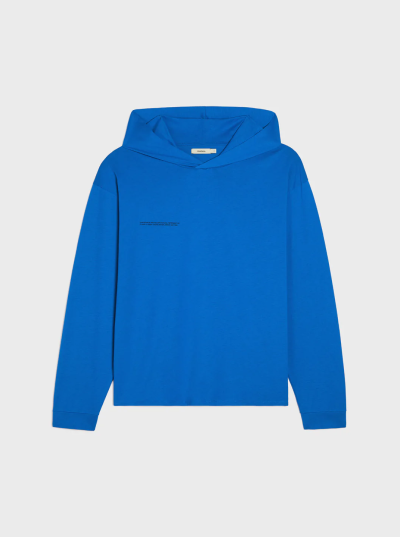
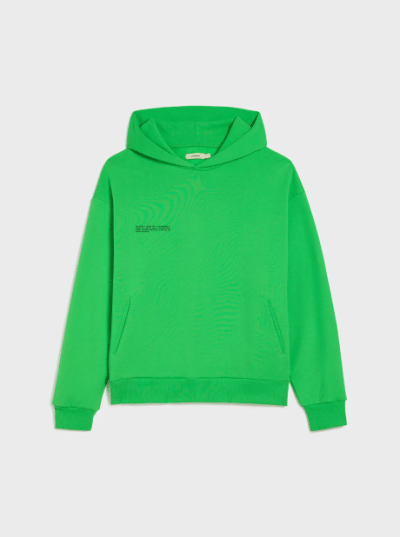
first commit

diff --git a/inner.html b/inner.html
@@ -37,7 +37,7 @@
                                 <div class="swiper-wrapper">
                                     <div class="swiper-slide">
                                         <div class="img-wrapper">
-                                            <img src="./img/bg-1.png" alt="ürün">
+                                            <img class="product-image" src="./img/bg-1.png" alt="ürün">
                                         </div>
                                         <div class="content">
                                             <h6>365 Signature Hoodie</h6>
@@ -45,17 +45,44 @@
                                                 <span class="price">€33.95</span>
                                                 <div class="change">
                                                     <form>
-                                                        <input type="radio" name="color" id="color1" value="color1" />
+                                                        <input type="radio" name="color" id="color1" value="./img/bg-1-2.png"checked/>
                                                         <label for="color1"><span class="color1"></span></label>
-
-                                                        <input type="radio" name="color" id="color2" />
+                                    
+                                                        <input type="radio" name="color" id="color2" value="./img/bg-1-3.png" />
                                                         <label for="color2"><span class="color2"></span></label>
-
-                                                        <input type="radio" name="color" id="color3" />
+                                    
+                                                        <input type="radio" name="color" id="color3" value="./img/bg-1-5.png"  />
                                                         <label for="color3"><span class="color3"></span></label>
-
-                                                        <input type="radio" name="color" id="color4" />
+                                    
+                                                        <input type="radio" name="color" id="color4" value="./img/bg-1-4.png" />
                                                         <label for="color4"><span class="color4"></span></label>
+                                                    </form>
+                                                </div>
+                                            </div>
+                                        </div>
+                                    </div>
+                                    
+                                    <div class="swiper-slide">
+                                        <div class="img-wrapper">
+                                            <img class="product-image" src="./img/bg-3.png" alt="ürün">
+                                        </div>
+                                        <div class="content">
+                                            <h6>365 Signature Hoodie</h6>
+                                            <div class="bottom">
+                                                <span class="price">€33.95</span>
+                                                <div class="change">
+                                                    <form>
+                                                        <input type="radio" name="color" id="color5" value="./img/bg-3-2.png" />
+                                                        <label for="color5"><span class="color1"></span></label>
+                                    
+                                                        <input type="radio" name="color" id="color6" value="./img/bg-3-4.png"  />
+                                                        <label for="color6"><span class="color2"></span></label>
+                                    
+                                                        <input type="radio" name="color" id="color7" value="./img/bg-3-1.png" checked />
+                                                        <label for="color7"><span class="color3"></span></label>
+                                    
+                                                        <input type="radio" name="color" id="color8" value="./img/bg-3-3.png" />
+                                                        <label for="color8"><span class="color4"></span></label>
                                                     </form>
                                                 </div>
                                             </div>
@@ -63,7 +90,7 @@
                                     </div>
                                     <div class="swiper-slide">
                                         <div class="img-wrapper">
-                                            <img src="./img/bg-3.png" alt="ürün">
+                                            <img class="product-image" src="./img/bg-1.png" alt="ürün">
                                         </div>
                                         <div class="content">
                                             <h6>365 Signature Hoodie</h6>
@@ -71,17 +98,17 @@
                                                 <span class="price">€33.95</span>
                                                 <div class="change">
                                                     <form>
-                                                        <input type="radio" name="color" id="color1" value="color1" />
-                                                        <label for="color1"><span class="color1"></span></label>
-
-                                                        <input type="radio" name="color" id="color2" />
-                                                        <label for="color2"><span class="color2"></span></label>
-
-                                                        <input type="radio" name="color" id="color3" />
-                                                        <label for="color3"><span class="color3"></span></label>
-
-                                                        <input type="radio" name="color" id="color4" />
-                                                        <label for="color4"><span class="color4"></span></label>
+                                                        <input type="radio" name="color" id="color9" value="./img/bg-2.png"checked/>
+                                                        <label for="color9"><span class="color1"></span></label>
+                                    
+                                                        <input type="radio" name="color" id="color10" value="./img/bg-2-1.png" />
+                                                        <label for="color10"><span class="color2"></span></label>
+                                    
+                                                        <input type="radio" name="color" id="color11" value="./img/bg-2-2.png"  />
+                                                        <label for="color11"><span class="color3"></span></label>
+                                    
+                                                        <input type="radio" name="color" id="color12" value="./img/bg-2-3.png" />
+                                                        <label for="color12"><span class="color4"></span></label>
                                                     </form>
                                                 </div>
                                             </div>
@@ -89,7 +116,7 @@
                                     </div>
                                     <div class="swiper-slide">
                                         <div class="img-wrapper">
-                                            <img src="./img/bg-2.png" alt="ürün">
+                                            <img class="product-image" src="./img/bg-3.png" alt="ürün">
                                         </div>
                                         <div class="content">
                                             <h6>365 Signature Hoodie</h6>
@@ -97,26 +124,29 @@
                                                 <span class="price">€33.95</span>
                                                 <div class="change">
                                                     <form>
-                                                        <input type="radio" name="color" id="color1" value="color1" />
-                                                        <label for="color1"><span class="color1"></span></label>
-
-                                                        <input type="radio" name="color" id="color2" />
-                                                        <label for="color2"><span class="color2"></span></label>
-
-                                                        <input type="radio" name="color" id="color3" />
-                                                        <label for="color3"><span class="color3"></span></label>
-
-                                                        <input type="radio" name="color" id="color4" />
-                                                        <label for="color4"><span class="color4"></span></label>
+                                                        <input type="radio" name="color" id="color13" value="./img/bg-3-2.png" />
+                                                        <label for="color13"><span class="color1"></span></label>
+                                    
+                                                        <input type="radio" name="color" id="color14" value="./img/bg-3-4.png"  />
+                                                        <label for="color14"><span class="color2"></span></label>
+                                    
+                                                        <input type="radio" name="color" id="color15" value="./img/bg-3-1.png"  />
+                                                        <label for="color15"><span class="color3"></span></label>
+                                    
+                                                        <input type="radio" name="color" id="color16" value="./img/bg-3-3.png" checked />
+                                                        <label for="color16"><span class="color4"></span></label>
                                                     </form>
                                                 </div>
                                             </div>
                                         </div>
                                     </div>
+                                    
+                                    
                                 </div>
                             </div>
                         </div>
                         <div class="swiper-button-next"></div>
+                        <div class="swiper-button-prev"></div>
                     </div>
 
                 </div>
@@ -127,6 +157,7 @@
     </section>
     <script src="https://cdn.jsdelivr.net/npm/swiper@10/swiper-bundle.min.js"></script>
     <script src="./js/script.js"></script>
+
 </body>
 
 </html>

diff --git a/css/style.css b/css/style.css
@@ -226,7 +226,8 @@ button {
   position: relative;
 }
 .products .col-right .slider-area .swiper-button-next,
-.products .col-right .slider-area .swiper-rtl .swiper-button-prev {
+.products .col-right .slider-area .swiper-rtl .swiper-button-prev, .products .col-right .slider-area .swiper-button-prev,
+.products .col-right .slider-area .swiper-rtl .swiper-button-next {
   right: 70px !important;
   border: 1px solid rgba(0, 0, 0, 0.3647058824);
   width: 4rem;
@@ -234,36 +235,48 @@ button {
 }
 @media screen and (max-width: 1550px) {
   .products .col-right .slider-area .swiper-button-next,
-  .products .col-right .slider-area .swiper-rtl .swiper-button-prev {
+  .products .col-right .slider-area .swiper-rtl .swiper-button-prev, .products .col-right .slider-area .swiper-button-prev,
+  .products .col-right .slider-area .swiper-rtl .swiper-button-next {
     width: 2.5rem;
     height: 2.5rem;
   }
 }
 @media screen and (max-width: 1200px) {
   .products .col-right .slider-area .swiper-button-next,
-  .products .col-right .slider-area .swiper-rtl .swiper-button-prev {
+  .products .col-right .slider-area .swiper-rtl .swiper-button-prev, .products .col-right .slider-area .swiper-button-prev,
+  .products .col-right .slider-area .swiper-rtl .swiper-button-next {
     width: 2rem;
     height: 2rem;
   }
 }
 @media screen and (max-width: 991px) {
   .products .col-right .slider-area .swiper-button-next,
-  .products .col-right .slider-area .swiper-rtl .swiper-button-prev {
+  .products .col-right .slider-area .swiper-rtl .swiper-button-prev, .products .col-right .slider-area .swiper-button-prev,
+  .products .col-right .slider-area .swiper-rtl .swiper-button-next {
     display: none;
   }
 }
 .products .col-right .slider-area .swiper-button-next:after,
-.products .col-right .slider-area .swiper-rtl .swiper-button-prev:after {
+.products .col-right .slider-area .swiper-rtl .swiper-button-prev:after, .products .col-right .slider-area .swiper-button-prev:after,
+.products .col-right .slider-area .swiper-rtl .swiper-button-next:after {
   display: none;
 }
 .products .col-right .slider-area .swiper-button-next:before,
-.products .col-right .slider-area .swiper-rtl .swiper-button-prev:before {
+.products .col-right .slider-area .swiper-rtl .swiper-button-prev:before, .products .col-right .slider-area .swiper-button-prev:before,
+.products .col-right .slider-area .swiper-rtl .swiper-button-next:before {
   content: "";
   background: url(../img/chevron-right.svg) no-repeat;
   background-size: 50%;
   background-position: center;
   height: 100%;
   width: 100%;
+}
+.products .col-right .slider-area .swiper-button-prev,
+.products .col-right .slider-area .swiper-rtl .swiper-button-next {
+  transform: rotate(180deg);
+}
+.products .col-right .slider-area .swiper-button-next.swiper-button-disabled, .products .col-right .slider-area .swiper-button-prev.swiper-button-disabled {
+  opacity: 0;
 }
 .products .col-right .slider-area .swiper-container {
   position: relative;

diff --git a/css/style.scss b/css/style.scss
@@ -112,7 +112,7 @@ $colors: (
     min-height: 100vh;
     max-width: 100%;
     overflow: hidden;
-    @media screen and (max-width:$sm-breakpoint) {
+    @media screen and (max-width: $sm-breakpoint) {
         padding-bottom: 4rem;
     }
     .col-left {
@@ -227,7 +227,8 @@ $colors: (
         .slider-area {
             position: relative;
             .swiper-button-next,
-            .swiper-rtl .swiper-button-prev {
+            .swiper-rtl .swiper-button-prev, .swiper-button-prev,
+            .swiper-rtl .swiper-button-next {
                 right: 70px !important;
                 border: 1px solid #0000005d;
                 width: 4rem;
@@ -236,11 +237,11 @@ $colors: (
                     width: 2.5rem;
                     height: 2.5rem;
                 }
-                @media screen and (max-width:$xl-breakpoint) {
+                @media screen and (max-width: $xl-breakpoint) {
                     width: 2rem;
                     height: 2rem;
                 }
-                @media screen and (max-width:$lg-breakpoint) {
+                @media screen and (max-width: $lg-breakpoint) {
                     display: none;
                 }
                 &:after {
@@ -253,8 +254,19 @@ $colors: (
                     background-position: center;
                     height: 100%;
                     width: 100%;
+                    
                 }
             }
+            .swiper-button-prev,
+            .swiper-rtl .swiper-button-next {
+              
+                transform: rotate(180deg);
+              
+            }
+            .swiper-button-next.swiper-button-disabled, .swiper-button-prev.swiper-button-disabled{
+                opacity: 0;
+            }
+
             .swiper-container {
                 position: relative;
                 margin-top: 5rem;

diff --git a/js/script.js b/js/script.js
@@ -16,11 +16,44 @@ var swiper = new Swiper(".mySwiper", {
     navigation: {
         nextEl: ".swiper-button-next",
         prevEl: ".swiper-button-prev",
-      },
+    },
     breakpoints: {
         1024: {
             spaceBetween: 30,
-          
+
         },
     },
 });
+
+window.onload = function () {
+    initializeSlider(1); // 1. swiper-slide için başlangıç işlemi
+    initializeSlider(2); // 2. swiper-slide için başlangıç işlemi
+    initializeSlider(3); // 3. swiper-slide için başlangıç işlemi
+    initializeSlider(4); // 4. swiper-slide için başlangıç işlemi
+}
+
+function initializeSlider(sliderNumber) {
+    var slider = document.querySelector('.swiper-slide:nth-child(' + sliderNumber + ')');
+    if (slider) {
+        var colorOptions = slider.querySelectorAll('input[name="color"]');
+        colorOptions.forEach(function (radio) {
+            if (radio.checked) {
+                changeImage(radio);
+            }
+            radio.addEventListener('change', function () {
+                changeImage(this);
+            });
+        });
+    }
+}
+
+function changeImage(radio) {
+    var newSrc = radio.value;
+    var productImage = radio.closest('.swiper-slide').querySelector('.product-image');
+    if (productImage) {
+        productImage.src = newSrc;
+    } else {
+        console.error("Ürün resmi bulunamadı.");
+    }
+}
+
